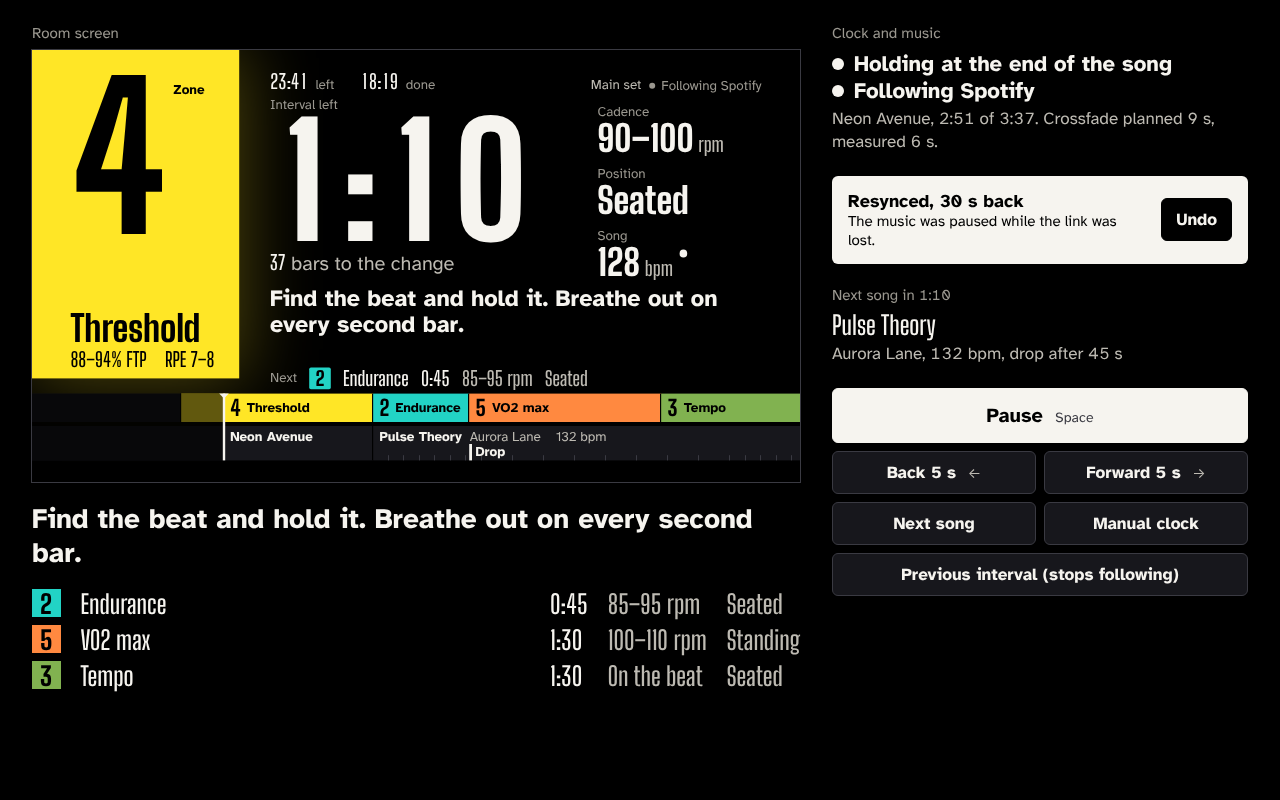
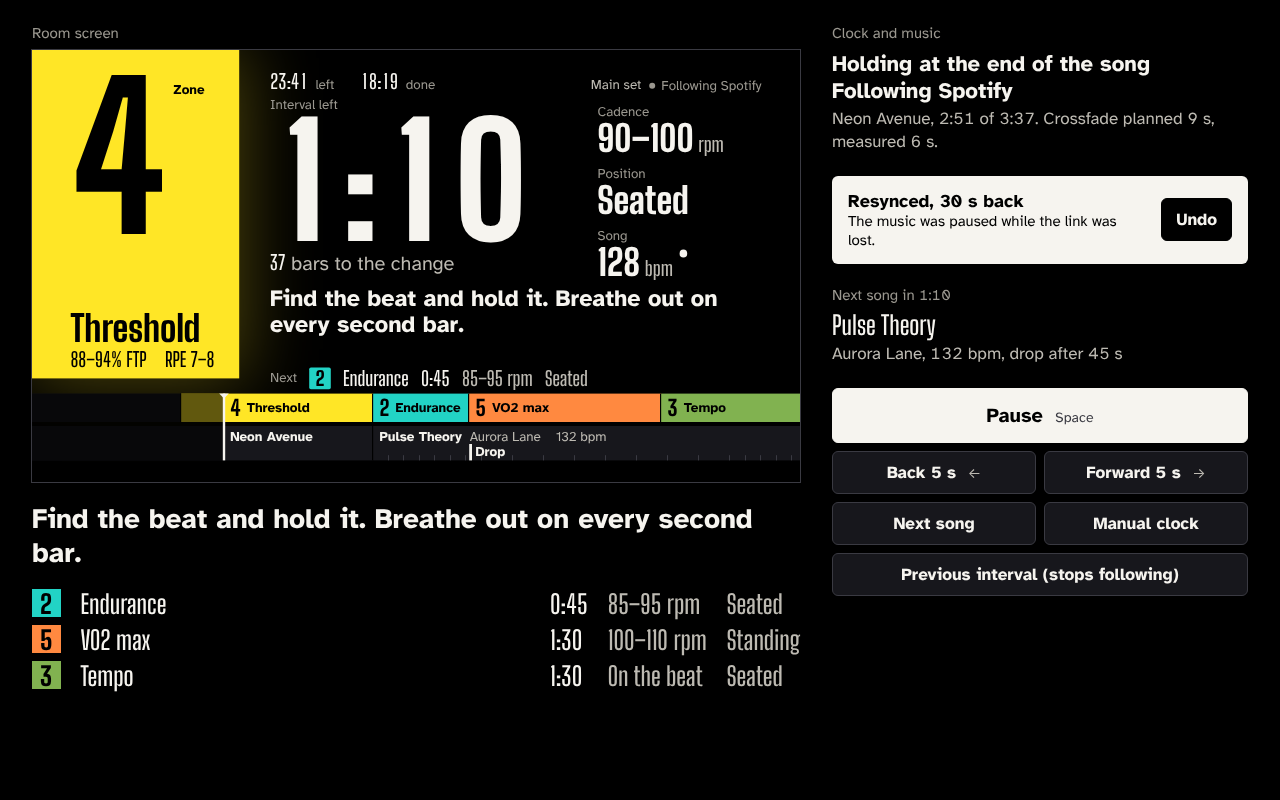
docs(design): keep the next zone on screen with a four-line cue
At 3:2 and narrower a cue that needs a fourth line no longer hides the next row: the row moves up beside the gel, shortened to the zone chip, name and length, and the spec lists this as the second exception. The wide-glyph fixture now measures whether three lines hold the cue. The beat dot's flash rule names the anchor tempo and a 1/3 s minimum between lights; the metric gap goes back to 1.6 vw; the presenter mock-up drops its dots, adds the player's default window size and lists the remaining rewordings.

Claude-Session: https://claude.ai/code/session_01V8DoTxwfzpAUiHqVx7SjRn

Changed region(s): [[0.6562, 0.0625, 0.9375, 0.125]]

diff --git a/docs/design/mockups/room.css b/docs/design/mockups/room.css
@@ -124,8 +124,8 @@ body {
 .metric .v { display: block; font-size: var(--t-value); line-height: 0.92; margin-top: 0.6vh; white-space: nowrap; }
 .metric .v small { font-size: var(--t-minor); font-weight: 600; color: var(--light-2); margin-left: 0.6vw; }
 /* The beat dot after the BPM: only while the link is locked and the song has beat anchors. It is
-   lit for about a third of the period on each beat (every second beat above 180 BPM, so never
-   more than three flashes a second) and drawn in the text colour, so the checks count it as part
+   lit for about a third of the period on each beat of the beat anchors, two lights at least
+   1/3 s apart (every second beat above 180 BPM in steady time) and drawn in the text colour, so the checks count it as part
    of the value. With reduced motion it is not shown. */
 .beat {
   display: inline-block; width: 0.22em; height: 0.22em; border-radius: 50%; margin-left: 0.18em;
@@ -258,20 +258,26 @@ body {
   .clock { top: 11vh; }
   .count { font-size: min(28vh, calc(61vw / var(--count-w))); }
   /* The row holds the widest case ("On the beat", "Standing", "Song, planned") down to 5:4: the
-     columns spread to the safe edge with at least 1.2 vw between them, and the values step down
+     columns spread to the safe edge with at least 1.6 vw between them, and the values step down
      with the width (7.4 vh at 4:3, 6.94 vh at 5:4, cap 5.6 %). */
-  .metrics { left: 34vw; width: auto; top: 46.5vh; flex-direction: row; justify-content: space-between; gap: 1.2vw; }
+  .metrics { left: 34vw; width: auto; top: 46.5vh; flex-direction: row; justify-content: space-between; gap: 1.6vw; }
   .metric .v { font-size: min(7.4vh, 5.55vw); }
   /* Full width: two lines at --t-text, three at --t-text-min. */
   .cue { left: var(--safe-x); top: 62vh; max-height: calc(3 * 1.12 * var(--t-text-min) + 0.5vh); }
   .cue.long { line-height: 1.12; }
   .next { left: var(--safe-x); top: 78vh; }
   /* A cue that needs a fourth line (only wide capitals near 120 characters) takes the next row's
-     place for that interval: four lines at --t-text-min, line height 1.02, and the next row is
-     not shown (the score still shows the next interval). The product measures; the mock-ups mark
-     such a cue "four". */
-  .cue.four { max-height: calc(4 * 1.02 * var(--t-text-min) + 0.3vh); line-height: 1.02; }
-  body:has(.cue.four) .next { display: none; }
+     place for that interval: four lines at --t-text-min, line height 1.02. The next row moves up
+     beside the foot of the gel, short: "Next", the zone chip, the name and the length (cadence
+     and position are left out). The gaps around the countdown close up by 2.1 vh to make that
+     room; every size stays as it is. The product measures; the mock-ups mark such a cue "four". */
+  .cue.four { top: 62.8vh; max-height: calc(4 * 1.02 * var(--t-text-min) + 0.3vh); line-height: 1.02; }
+  body:has(.cue.four) .clock { top: 10.5vh; }
+  body:has(.cue.four) .count { margin-top: 0.4vh; }
+  body:has(.cue.four) .bars { margin-top: 0.6vh; }
+  body:has(.cue.four) .metrics { top: 44.4vh; }
+  body:has(.cue.four) .next { left: 34vw; top: 56.5vh; }
+  body:has(.cue.four) .next .v.dim { display: none; }
   .score { top: 83vh; height: 12vh; }
   .track.iv { height: 4.4vh; }
   .block .n { font-size: 4vh; }

diff --git a/docs/design/mockups/presenter.html b/docs/design/mockups/presenter.html
@@ -9,22 +9,24 @@
   * { box-sizing: border-box; margin: 0; padding: 0; }
   body {
     background: var(--stage); color: var(--light-1); font-family: var(--face-text);
-    font-variant-numeric: tabular-nums; width: 1280px; height: 800px; overflow: hidden;
-    display: grid; grid-template-columns: 768px 1fr; gap: 32px; padding: 24px 32px;
+    font-variant-numeric: tabular-nums; width: 100vw; height: 100vh; overflow: hidden;
+    display: grid; grid-template-columns: var(--pw) 1fr; gap: 32px; padding: 24px 32px;
+    --pw: 768px; --ps: 0.4; /* the room preview's width, and its scale from 1920 */
   }
+  /* The player's default window (1000x760 with its title bar): a smaller preview, the same type. */
+  @media (max-width: 1100px) { body { --pw: 560px; --ps: 0.29167; gap: 24px; padding: 20px 24px; } }
   .lbl { font-size: 15px; color: var(--light-3); line-height: 1.2; }
   .n { font-family: var(--face-number); font-weight: 800; }
   h2 { font-size: 15px; font-weight: 400; color: var(--light-3); margin-bottom: 8px; }
-  .preview { width: 768px; height: 432px; overflow: hidden; outline: 1px solid var(--stage-line); }
-  .preview iframe { width: 1920px; height: 1080px; border: 0; transform: scale(0.4); transform-origin: 0 0; }
+  .preview { width: var(--pw); height: calc(var(--pw) * 9 / 16); overflow: hidden; outline: 1px solid var(--stage-line); }
+  .preview iframe { width: 1920px; height: 1080px; border: 0; transform: scale(var(--ps)); transform-origin: 0 0; }
   .cue { font-size: 28px; font-weight: 700; line-height: 1.2; margin-top: 20px; max-width: 30em; }
   .list { margin-top: 20px; display: grid; grid-template-columns: auto 1fr auto auto auto; column-gap: 20px; row-gap: 8px; align-items: baseline; }
   .list .chip { font-family: var(--face-number); font-weight: 800; font-size: 26px; background: var(--zone); color: var(--ink); padding: 2px 8px 0; line-height: 1; }
   .list .v { font-family: var(--face-number); font-weight: 600; font-size: 26px; line-height: 1; }
   .list .dim { color: var(--light-2); }
   .side { display: flex; flex-direction: column; gap: 22px; }
-  .state { font-size: 22px; font-weight: 700; display: flex; align-items: center; gap: 10px; }
-  .state::before { content: ""; width: 12px; height: 12px; border-radius: 50%; background: var(--light-1); }
+  .state { font-size: 22px; font-weight: 700; }
   .detail { font-size: 17px; color: var(--light-2); margin-top: 4px; line-height: 1.35; }
   .notice { background: var(--light-1); color: var(--ink); padding: 14px 16px; display: flex; align-items: center; gap: 16px; border-radius: 6px; }
   .notice p { font-size: 18px; font-weight: 700; line-height: 1.25; flex: 1; }
@@ -44,7 +46,8 @@
 </style>
 </head>
 <body>
-<!-- Presenter window at 1280x800: the room preview (the room screen drawn at 768x432),
+<!-- Presenter window at 1280x800 and at the player's default 1000x720 (inside a 1000x760 window):
+     the room preview (the room screen drawn at 768x432, or 560x315),
      the cue, the next intervals, the clock and music link lines with a resync notice, and the
      controls with their longest labels. Wording convention: presenter.md. -->
 <main>

diff --git a/docs/design/mockups/shots.js b/docs/design/mockups/shots.js
@@ -34,7 +34,7 @@ const room = (state, w, h, save = true, motion = null) => ({
   file: `room-${state}.html`, png: `room-${state}${motion ? '-reduced' : ''}-${w}x${h}.png`, w, h, room: true, save, motion,
 });
 const KEEP_WORST = new Set(['worst-off-list-1280x1024', 'worst-off-list-1650x1080', 'worst-running-1280x720', 'worst-before-start-1280x1024', 'worst-before-start-1650x1080',
-  'worst-ambiguous-1650x1080', 'worst-wide-1650x1080', 'worst-wide-1280x1024', 'worst-wide-before-start-1650x1080']);
+  'worst-ambiguous-1650x1080', 'worst-wide-1650x1080', 'worst-wide-1440x1080', 'worst-wide-1280x1024', 'worst-wide-before-start-1650x1080']);
 
 const ONLY = process.env.ONLY ? new RegExp(process.env.ONLY) : null;
 
@@ -57,6 +57,8 @@ const SHOTS = [
   room('running', 480, 270), // the room preview inside the presenter window
   room('worst-running', 480, 270, false),
   { file: 'presenter.html', png: 'presenter-1280x800.png', w: 1280, h: 800, room: false, presenter: true, save: true },
+  // The player's default presenter window (1000x760 with its title bar).
+  { file: 'presenter.html', png: 'presenter-1000x720.png', w: 1000, h: 720, room: false, presenter: true, save: true },
 ].filter((s) => !ONLY || ONLY.test(s.png));
 
 module.exports = { SHOTS, STATES, MORE, SIZES, WORST };

diff --git a/docs/design/mockups/room-worst-wide.html b/docs/design/mockups/room-worst-wide.html
@@ -33,7 +33,7 @@
   <div class="metric"><span class="lbl" data-tier="label">Song</span><span class="v n" data-tier="value">200<small data-tier="minor">bpm</small><span class="beat" style="--beat:600ms"></span></span></div>
 </section>
 
-<p class="cue long four" data-tier="text" data-lines="4">WHOA: MOVE WITH THE MUSIC. WOW, MOMENTUM NOW. MAXIMUM WORK, WIDE KNEES, MOW THE HILL. WE WIN WHEN WE MOVE AS ONE. WOW!</p>
+<p class="cue long" data-tier="text" data-lines="4">WHOA: MOVE WITH THE MUSIC. WOW, MOMENTUM NOW. MAXIMUM WORK, WIDE KNEES, MOW THE HILL. WE WIN WHEN WE MOVE AS ONE. WOW!</p>
 
 <div class="next">
   <span class="lbl" data-tier="label">Next</span>
@@ -59,5 +59,14 @@
   <div class="past"></div>
   <div class="now"></div>
 </section>
+<script>
+// The product measures the cue, and so does this fixture: at 3:2 and narrower the cue is marked
+// "four" only where three lines do not hold it (room-2d.md, "Fitting text"). This callback is
+// registered before the checks wait for the fonts, so it runs first.
+document.fonts.ready.then(() => {
+  const cue = document.querySelector('.cue');
+  if (matchMedia('(max-aspect-ratio: 3/2)').matches && cue.scrollHeight > cue.clientHeight + 1) cue.classList.add('four');
+});
+</script>
 </body>
 </html>

diff --git a/docs/design/room-2d.md b/docs/design/room-2d.md
@@ -27,9 +27,15 @@ read from a bike up to about 12 m away, and nothing else.
 8. **Time in the class**: left and done; the segment name (warm-up, main set, ...).
 9. **The music-link state** (ADR 0001): quiet while following, a white plate otherwise.
 
-All nine are visible at once in every running state at every size below, with one exception:
-the segment name (part of item 8) is dropped at 3:2 and narrower, and hidden while a link plate
-shows, because the rail then holds only the class time and the plate. Nothing scrolls.
+All nine are visible at once in every running state at every size below, with two exceptions:
+
+- the segment name (part of item 8) is dropped at 3:2 and narrower, and hidden while a link plate
+  shows, because the rail then holds only the class time and the plate;
+- at 3:2 and narrower, for an interval whose cue needs a fourth line (see "Cue" below), the next
+  row (item 6) is shortened to the next zone's number, name and length; that interval's cadence
+  and position are left out. The next zone's number and name are always on screen.
+
+Nothing scrolls.
 
 ## Layout
 
@@ -100,10 +106,11 @@ layout, [FTP test at 1650×1080](mockups/room-ftp-test-1650x1080.png) (1.53 : 1)
 
 The gel is 30 vw by 60 vh; the numeral 31.5 vh; the countdown at most 28 vh; a zone name that
 needs two lines is set at 6.9 vh (at most 5.75 vw); the metrics sit in a row under the countdown,
-spread to the safe edge with at least 1.2 vw between them, values at min(7.4 vh, 5.55 vw) so
+spread to the safe edge with at least 1.6 vw between them, values at min(7.4 vh, 5.55 vw) so
 "On the beat", "Standing" and "Song, planned" fit on one line down to 5:4 (6.94 vh there, cap
 5.6 %); the cue (from 62 vh, two lines at `--t-text`, three at `--t-text-min`) and the next
-interval (78 vh) use the full width; the score is 83 to 95 vh; the segment name is dropped from
+interval (78 vh) use the full width (a four-line cue moves the next row up beside the gel: see
+"Cue" under "Fitting text"); the score is 83 to 95 vh; the segment name is dropped from
 the rail. Switch point: any aspect ratio of 3:2 or narrower. 5:4 screenshot:
 [last interval at 1280×1024](mockups/room-last-interval-1280x1024.png) ("On the beat") and the
 worst cases below.
@@ -175,9 +182,15 @@ spec comes with PL5; this mock-up fixes only how the preview and the notice look
   needs the fourth line near 3:2. At 3:2 and narrower it is full width: two lines at `--t-text`,
   three at `--t-text-min`. A word longer than a line breaks rather than being cut. A cue that
   still needs a fourth line there (only wide capitals near 120 characters, as in the
-  [wide-glyph worst case](mockups/room-worst-wide.html)) takes the next row's place for that
-  interval: four lines at `--t-text-min`, line height 1.02, and the next row is not shown (the
-  score still shows the next interval). The product measures; the mock-ups mark such a cue.
+  [wide-glyph worst case at 5:4](mockups/room-worst-wide-1280x1024.png)) takes the next row's
+  place for that interval: four lines at `--t-text-min`, line height 1.02, from 62.8 vh. The next
+  row moves up beside the foot of the gel (34 vw, 56.5 vh) and is shortened to "Next", the zone
+  chip, the name (ellipsis as usual) and the length; cadence and position are left out. To make
+  that room the gaps around the countdown close up (clock from 10.5 vh, 0.4 vh above the
+  countdown, 0.6 vh above the bars, metrics from 44.4 vh); no size changes. The product measures
+  whether three lines hold the cue; the wide-glyph fixture does the same, so at 3:2 and 4:3 it
+  shows three lines and the
+  [full next row](mockups/room-worst-wide-1440x1080.png).
 - **Score blocks**: the zone number always; the name if and only if the whole name fits beside
   it, never cut (the mock-ups do this with a wrapping row that hides a name that does not fit).
   A block or clip that began in the past keeps its label just right of "now". Blocks wholly in
@@ -208,8 +221,9 @@ slot and are checked at all ten sizes. Three were added for the #31 review: the
 occurrence marker, and two **width-based** fixtures, [running](mockups/room-worst-wide.html) and
 [before the start](mockups/room-worst-wide-before-start.html), with names, segment and titles made
 of the widest capitals (M, W) and single 80-character words, and a 120-character cue in wide
-capitals ([1650×1080](mockups/room-worst-wide-1650x1080.png), [5:4](mockups/room-worst-wide-1280x1024.png),
-[before the start](mockups/room-worst-wide-before-start-1650x1080.png)). The mock-ups choose
+capitals ([1650×1080](mockups/room-worst-wide-1650x1080.png), [4:3](mockups/room-worst-wide-1440x1080.png)
+with three cue lines and the full next row, [5:4](mockups/room-worst-wide-1280x1024.png) with
+four cue lines and the short next row, [before the start](mockups/room-worst-wide-before-start-1650x1080.png)). The mock-ups choose
 step-downs by character count; the width-based fixtures are the ones the product's own measuring
 must pass, and PL4 CI keeps them. The other five: [off the list](mockups/room-worst-off-list.html) (tag and "Interval
 left, estimated", plate "Not a class song", `58:58`, class time `1:58:58`, "On the beat",
@@ -268,8 +282,11 @@ The interval change is the one moment the screen moves on purpose: the gel's col
 700 ms and a white line runs down the gel's edge for 160 ms. The score moves continuously at
 0.28 vw per second. A small dot after the BPM marks the beat when the link is locked and the
 song has beat anchors (otherwise it is not shown; it never claims to hit a beat it cannot
-measure). It lights on every beat up to 180 BPM and on every second beat above, so it never
-flashes more than three times a second (200 BPM: 1.67 a second). With `prefers-reduced-motion` (and in the player's own reduced-motion setting, which
+measure). It follows the beats it marks: the tempo between the song's beat anchors where the
+song is playing, not the song's listed BPM. Two lights always start at least 1/3 s apart; a beat
+that comes sooner after the last light is skipped. In steady time that is every beat up to
+180 BPM and every second beat above (200 BPM: 1.67 lights a second), and tempo drift near 180
+can never give four lights in one second. With `prefers-reduced-motion` (and in the player's own reduced-motion setting, which
 the plain screen honours the same way): colour changes are instant, there is no flash and no
 beat dot, and the score steps once a second. No state relies on motion to be understood.
 
@@ -299,7 +316,7 @@ These are what a Developer builds against and what CI checks on the real screen'
 in PL4, at every supported size with the worst-case content. On the mock-ups,
 [mockups/shoot.js](mockups/shoot.js) takes the screenshots and then runs
 [mockups/measure.js](mockups/measure.js) on every shot in [mockups/shots.js](mockups/shots.js)
-(the states, four more states at three sizes, and the eight worst cases at all ten sizes: 117
+(the states, four more states at three sizes, and the eight worst cases at all ten sizes, and the presenter at two: 118
 shots, about twelve minutes with Playwright and Chromium, animations stopped at their first
 frame so every PNG reproduces); it exits non-zero on any failure and ends with a summary table of
 fixture by size. Every check passes on every shot.
@@ -312,7 +329,7 @@ fixture by size. Every check passes on every shot.
 | C4. No collisions | No two pieces of text overlap; no text is covered by a fill (the score over a list); no text wraps to more lines than its slot allows (one unless the spec says more); no text is cut off by its own box or a container, except a designed ellipsis and the score labels shown only when they fit whole |
 | C5. Zone | Every zone colour carries its number; the gel, the next row and the time-in-zone list also carry the name; a score block shows its name if and only if the whole name fits beside the number, and never draws it cut. Past score blocks carry no zone colour |
 | C6. Hue | Any text, fill or border that is not grey lies inside an element that stands for a zone. Not covered by the mock-up script: hue inside `box-shadow` and gradients (the gel's glow is the zone's own colour); PL4 CI must cover them or forbid hue there |
-| C7. Motion | With reduced motion, no transition or animation lasts longer than 0; without it, nothing that repeats (the beat dot) cycles more than three times a second. The mock-ups can only check CSS animations and transitions: PL4 CI must also cover the beat dot's real timing, the 160 ms edge flash and the score's movement (continuous, and whole-second steps with reduced motion) |
+| C7. Motion | With reduced motion, no transition or animation lasts longer than 0; without it, nothing that repeats (the beat dot) cycles more than three times a second. The mock-ups can only check CSS animations and transitions: PL4 CI must also cover the beat dot's real timing (at least 1/3 s between the starts of two lights, including with tempo drift near 180 BPM), the 160 ms edge flash and the score's movement (continuous, and whole-second steps with reduced motion) |
 | C8. Coverage | Every piece of text on the screen is inside an element the checks see (in the mock-ups: a `data-tier` element), so no text escapes C1 to C4 |
 | C9. Palette | From `tokens.css`, by [mockups/palette.js](mockups/palette.js): every zone at least 7 : 1 with black on it, on the stage and on the lights-down gel; neighbouring zones at least ΔE 30 apart for normal vision, 25 for protanopia and deuteranopia, 12 for tritanopia (system.md) |
 

diff --git a/docs/design/presenter.md b/docs/design/presenter.md
@@ -3,7 +3,8 @@
 Status: proposed in the pull request for issue #78. The presenter window's full spec comes with
 PL5. Until then, this file sets one convention for its words, because the player already shows
 them (design notes on #65 and #69). Mock-up: [mockups/presenter.html](mockups/presenter.html)
-([1280×800](mockups/presenter-1280x800.png)).
+([1280×800](mockups/presenter-1280x800.png), and [1000×720](mockups/presenter-1000x720.png), the
+player's default 1000×760 window less its title bar).
 
 ## One convention
 
@@ -36,7 +37,7 @@ The same words as the room screen's plates (room-2d.md, "Link plates"):
 
 | Link state (ADR 0001) | Line | Room screen |
 |---|---|---|
-| Locked | Following Spotify (the music app's name) | Same, in grey |
+| Locked | Following Spotify: "Following" and the music app's name | Same, in grey with a round dot |
 | Before the first lock | Waiting for the first song | Same |
 | Paused | Music paused | Plate |
 | Coasting | Music not heard | Plate |
@@ -45,9 +46,18 @@ The same words as the room screen's plates (room-2d.md, "Link plates"):
 | Manual | Manual clock | Same, grey with a square marker |
 | Manual, before the start | Press Start | Same |
 
-Two lines in the player today are worded differently and change to the convention when the
-presenter is built: "manual clock: following stopped" becomes "Manual clock, following stopped",
-and the lowercase clock words ("paused", "running", "ended") take a capital.
+The presenter's lines carry no marker. The round dot (following) and the square marker (manual)
+belong to the room screen, where they tell the link states apart from across the room; on the
+presenter the words say it.
+
+Lines in the player today that are worded differently and change to the convention when the
+presenter is built:
+
+- "manual clock: following stopped" becomes "Manual clock, following stopped";
+- "ended (holding at the end)" becomes "Ended, holding at the end";
+- the lowercase clock words ("paused", "running", "ended") take a capital;
+- the details now in brackets after the link line ("the clock is guessing", "following the music
+  is unavailable on this computer") move to the grey second line.
 
 ## Controls
 
@@ -57,7 +67,10 @@ hands the clock over, "Next interval (stops following)" and "Previous interval (
 "Follow the music", "Manual clock", "Undo".
 
 The longest, "Previous interval (stops following)" (35 characters), takes a full row of the
-controls at 17 px bold in the 1280×800 mock-up and fits on one line. measure.js checks that no
-control wraps (C4). The presenter is read at arm's length, so the room-distance heights (C1)
-do not apply to it. A control row never shortens a label to make it fit: the row widens, or the
-label takes a full row.
+controls at 17 px bold and fits on one line at both sizes of the mock-up, including the
+player's default window, where the room preview shrinks to 560 px and the type stays the same.
+measure.js checks that no control wraps (C4). The presenter is read at arm's length, so the
+room-distance heights (C1) do not apply to it; the type is set in pixels, so a label that fits
+in the default window fits in any larger one. Windows smaller than the default come with the
+presenter's full spec in PL5. A control row never shortens a label to make it fit: the row
+widens, or the label takes a full row.

diff --git a/docs/design/system.md b/docs/design/system.md
@@ -154,12 +154,12 @@ the 2 % tier is kept for labels, link states and the score's song titles.
 | `--m-flash` | 160 ms | A white line, 1 vh wide, down the gel's right edge at an interval change | 0: no flash |
 | `--m-state` | 300 ms, ease out | A link-state plate appearing or leaving; lights down and up | 0 |
 | (score) | continuous, 0.28 vw per second | The score moving under "now" | Moves in whole-second steps |
-| (beat) | 120 ms | A dot after the BPM, on every beat up to 180 BPM and every second beat above, only when the link is locked and the song has beat anchors | Off (not shown) |
+| (beat) | 120 ms | A dot after the BPM on the beats from the song's beat anchors (not its listed BPM), two lights at least 1/3 s apart (in steady time, every beat up to 180 BPM and every second beat above), only when the link is locked and the song has beat anchors | Off (not shown) |
 
 The single orchestrated moment is the interval change, and its white edge line is the one large
 flash the screen makes, once per change. Apart from that line and the beat dot, nothing flashes,
-and nothing, the beat dot included, flashes more than three times a second: above 180 BPM the dot
-marks every second beat. The 3D scene may add its own light show, but
+and nothing, the beat dot included, flashes more than three times a second: two lights of the dot
+start at least 1/3 s apart, and a beat that comes sooner is skipped. The 3D scene may add its own light show, but
 the text and the zone rules above stay as they are over it.
 
 ## Shipping the tokens
